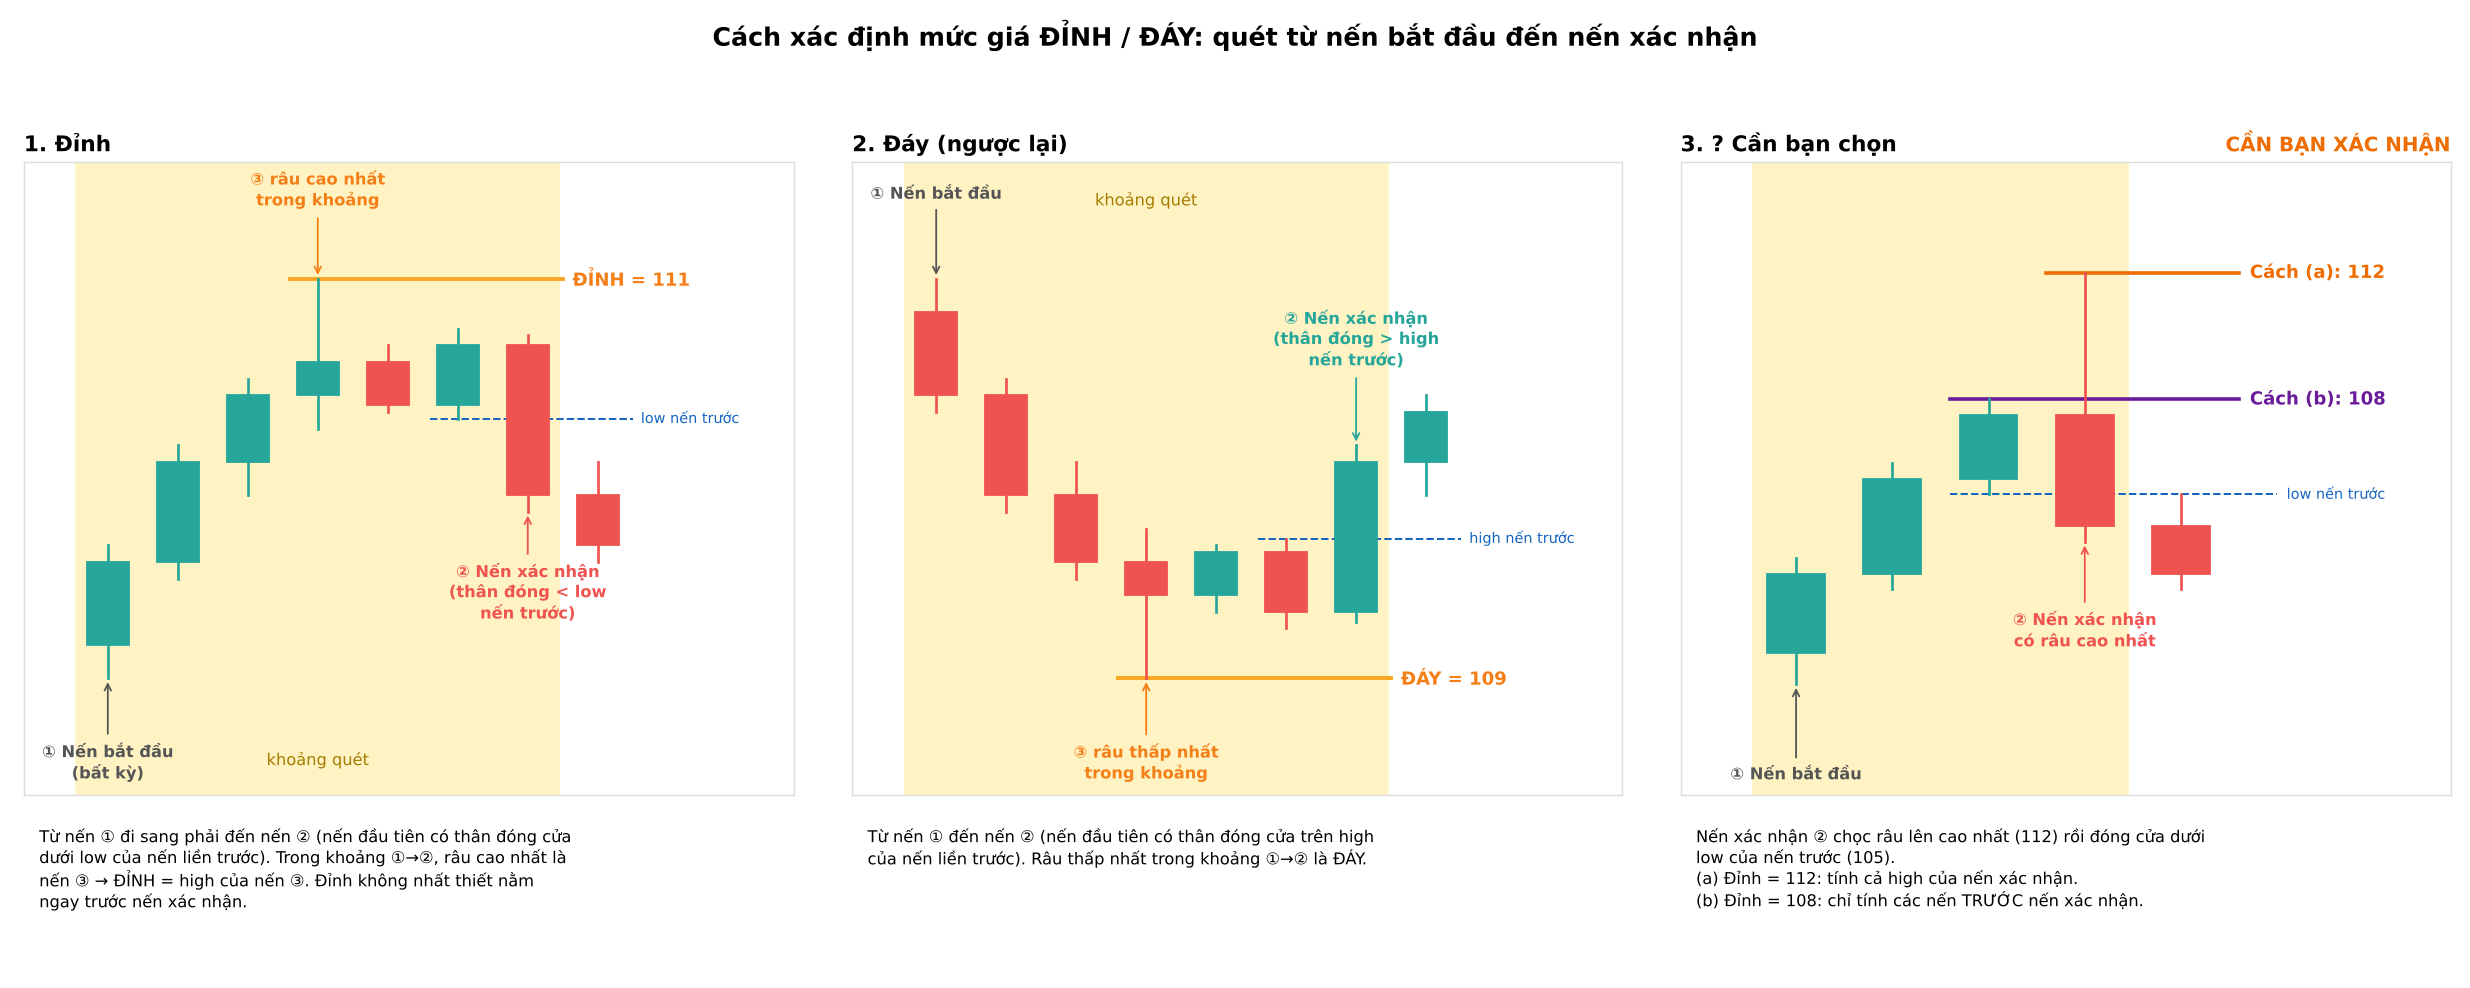
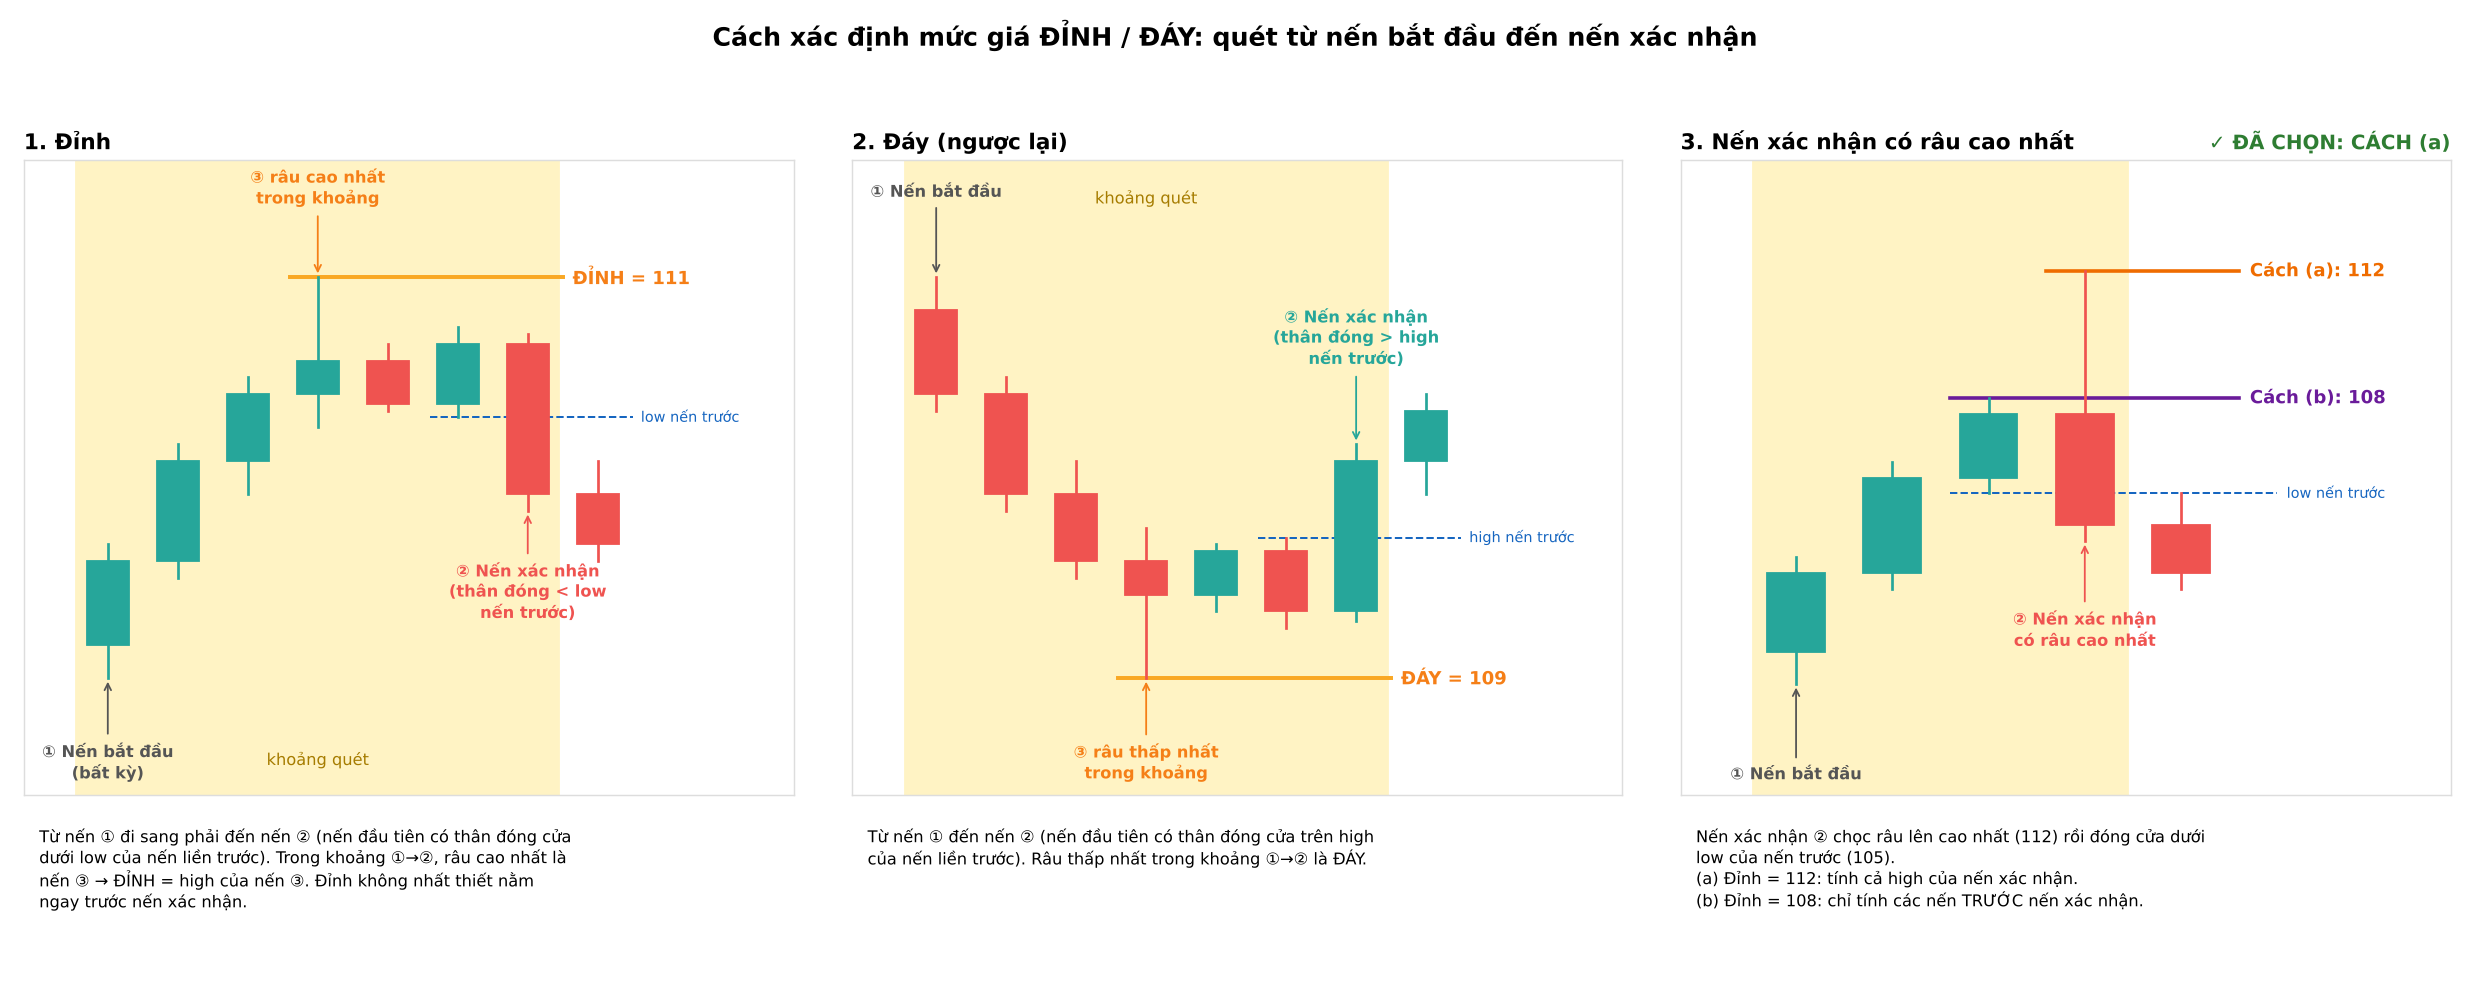
Chốt: mức giá đỉnh/đáy tính cả râu của nến xác nhận
Claude-Session: https://claude.ai/code/session_01QDQqkxbAsnss6apbWZAP33

diff --git a/knowledge/03-setup.md b/knowledge/03-setup.md
@@ -20,10 +20,11 @@
 **Cách xác định mức giá đỉnh trên biểu đồ (đã xác nhận):**
 1. Chọn một cây nến bất kỳ làm điểm bắt đầu.
 2. Đi tiếp sang phải cho đến khi gặp cây nến xác nhận đỉnh (thân đóng cửa thấp hơn hẳn low của nến liền trước).
-3. **Đỉnh = râu cao nhất (high lớn nhất)** trong khoảng từ cây nến bắt đầu đến cây nến xác nhận.
+3. **Đỉnh = râu cao nhất (high lớn nhất)** trong khoảng từ cây nến bắt đầu đến cây nến xác nhận, **TÍNH CẢ râu của chính cây nến xác nhận**. Đáy làm ngược lại: râu thấp nhất, tính cả nến xác nhận.
+
+Minh họa: `examples/04-cach-xac-dinh-dinh-day.png` (ô 3: đã chọn cách (a)).
 
 **Chưa chốt về cách quét:**
-- Khoảng này có tính cả high của chính cây nến xác nhận không?
 - Sau khi xác nhận một đỉnh, lần quét tiếp theo bắt đầu từ cây nến nào?
 
 ## 2. Đáy (swing low)
